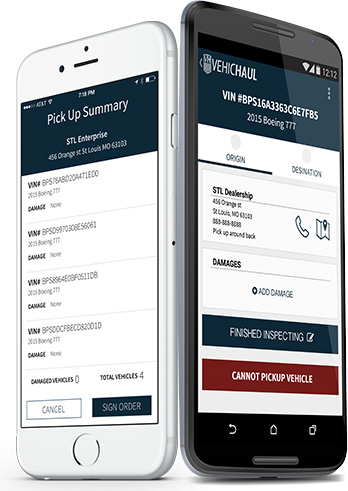
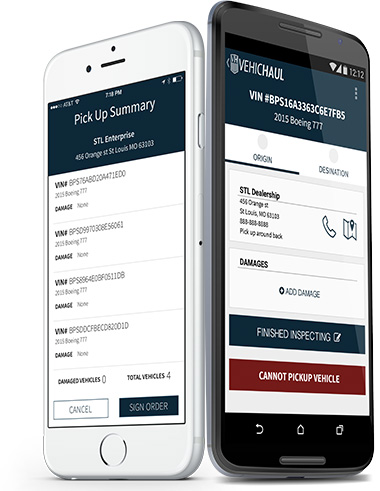
Extended width of integrate image to show more shadow --greg

diff --git a/index.html b/index.html
@@ -53,7 +53,7 @@
 
    
 
-    <div class="row feature feature-bottom-hero feature-middle-copy">
+    <div class="row feature feature-middle-copy">
       <div class="small-12 large-7 columns text-center large-text-left">
         <h1 class="feature-header">Integrate</h1>
         <h2 class="feature-subheader">Mobile is driving the future of technology. In fact, your drivers rely on mobile for GPS, day-to-day communication and emergency services. Enhance the use of vehicle mobile technology by easily integrating the VehicHaul app into your daily business operations. VehicHaul integrates with any vehicle transportation management system so you don’t have to start from scratch. Instead, we strive to offer a smooth transition with VehicHaul’s user friendly mobile app, the ultimate ePod solution.</h2>
